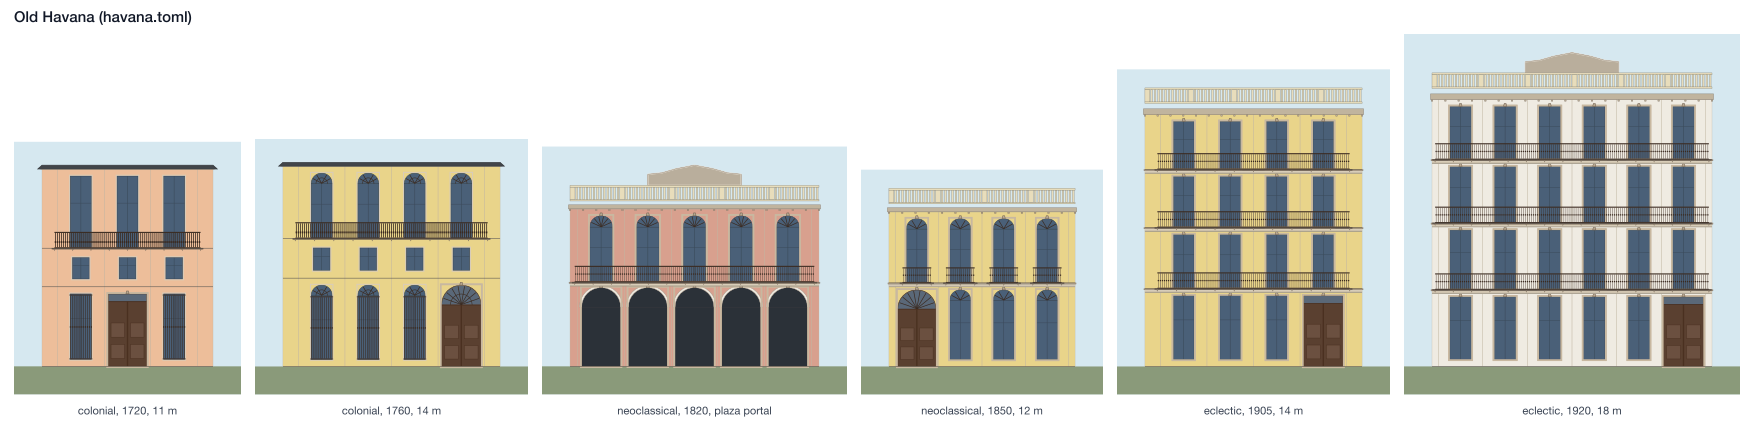
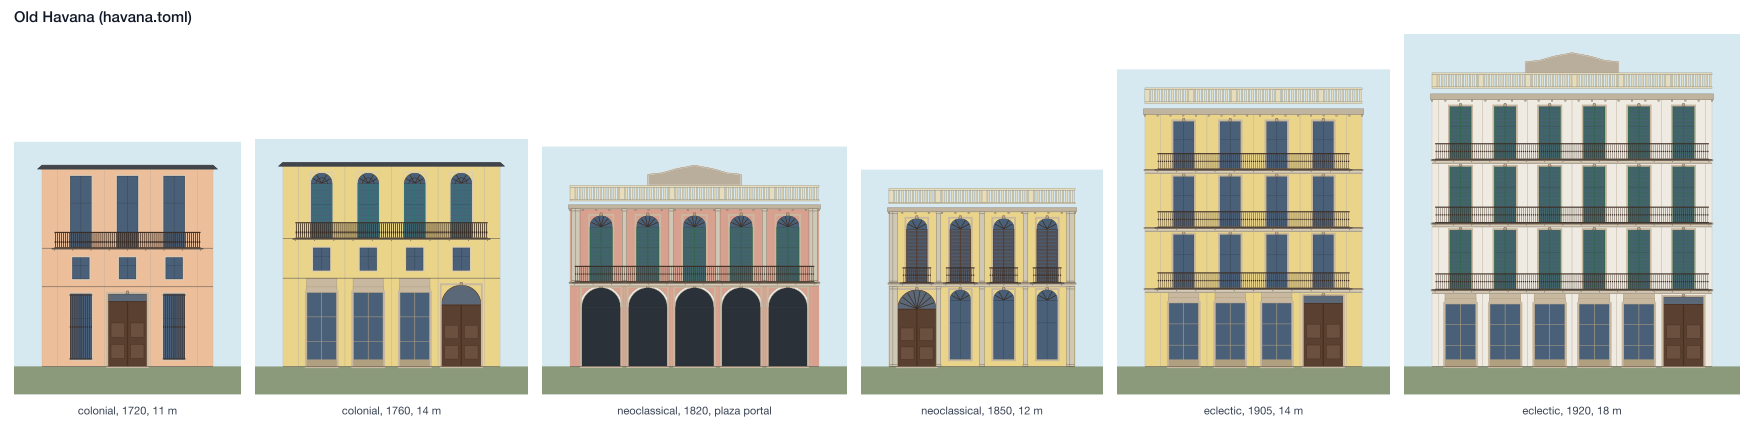
Old Havana: grown persianas, mediopunto patterns, pilasters and bodegas
Persianas are louvered leaves grown over the upper openings (havana.persiana),
painted green, blue, teal or brown per house. The mediopunto grows a plain
fan, a ringed fan or a vitral grid. Some fronts take pilasters between the
bays and some let the ground floor as a bodega.

diff --git a/tests/unit/test_havana.py b/tests/unit/test_havana.py
@@ -77,3 +77,22 @@ def test_a_plaza_front_opens_in_a_portal():
 def test_a_hundred_seeds_give_a_hundred_fronts(year):
     designs = {_coarse(generate_havana(HavanaSite(12.0, year, BuildingClass.COMFORTABLE, s))[0]) for s in range(100)}
     assert len(designs) >= 80, len(designs)
+
+
+def test_the_builders_choices_vary_across_seeds():
+    """Persianas (grown louvered leaves), pilasters, bodegas and the three
+    mediopunto patterns each turn up on some fronts and not on others."""
+    from buildings.typologies.havana.grammar import derive_havana
+
+    seen = {"Persiana": set(), "Column": set(), "shop": set(), "pattern": set(), "paint": set()}
+    for s in range(60):
+        lot, _ = derive_havana(HavanaSite(12.0, 1800 + s, BuildingClass.COMFORTABLE, s))
+        labels = {x.label for x in lot.walk()}
+        seen["Persiana"].add("Persiana" in labels)
+        seen["Column"].add("Column" in labels)
+        seen["shop"].add(any(x.attrs.get("opening_type") == "shop_bay" for x in lot.walk()))
+        seen["pattern"].add(lot.attrs["fan_pattern"])
+        seen["paint"].add(lot.attrs["louvre_paint"])
+    assert seen["Persiana"] == seen["Column"] == seen["shop"] == {True, False}
+    assert seen["pattern"] == {"fan", "ring", "grid"}
+    assert len(seen["paint"]) >= 3

diff --git a/src/buildings/render/svg/elements.py b/src/buildings/render/svg/elements.py
@@ -838,6 +838,10 @@ def draw_column(canvas: Canvas, x: float, y: float, w: float, h: float, props: M
         # A post of a timber frame: oak, dark, square-edged, no base or cap.
         canvas.rect(x, y, w, h, _C["timber"], stroke_w=0.0)
         return
+    if order == "louvre":
+        # A slat or stile of a painted louvered leaf; its paint is the rule's.
+        canvas.rect(x, y, w, h, _C.get(f"louvre_{props.get('louvre_paint') or 'green'}", _C["timber"]), stroke_w=0.0)
+        return
     if order == "corner_board":
         # The painted board that closes a timber-clad corner.
         canvas.rect(x, y, w, h, _C["wall_clapboard_cream"], stroke=_C["column_stroke"], stroke_w=0.3)

diff --git a/src/buildings/typologies/common/kit.py b/src/buildings/typologies/common/kit.py
@@ -284,7 +284,8 @@ def write_column(shape: Shape, below, d) -> list[Node]:
             id=shape.id,
             kind="column",
             trace=tuple(shape.trace) + tuple(shape.parent.trace[:1]),
-            props={**xywh(shape.scope), "order": shape.attr("order")},
+            props={**xywh(shape.scope), "order": shape.attr("order"),
+                   **({"louvre_paint": shape.attrs["louvre_paint"]} if "louvre_paint" in shape.attrs else {})},
         )
     ]
 

diff --git a/src/buildings/render/svg/colors.py b/src/buildings/render/svg/colors.py
@@ -76,6 +76,10 @@ COLORS: dict[str, str] = {
     "wall_render_white": "#F4F3EF",
     "wall_shadow": "#5F6366",
     "timber": "#3A2A20",
+    "louvre_green": "#2F6B4A",
+    "louvre_blue": "#2E5F86",
+    "louvre_brown": "#5A3A26",
+    "louvre_teal": "#2C7A78",
     "wall_clapboard_sage": "#9DAE8C",
     "wall_clapboard_blue": "#8FA7BF",
     "wall_clapboard_cream": "#E8DDBB",
